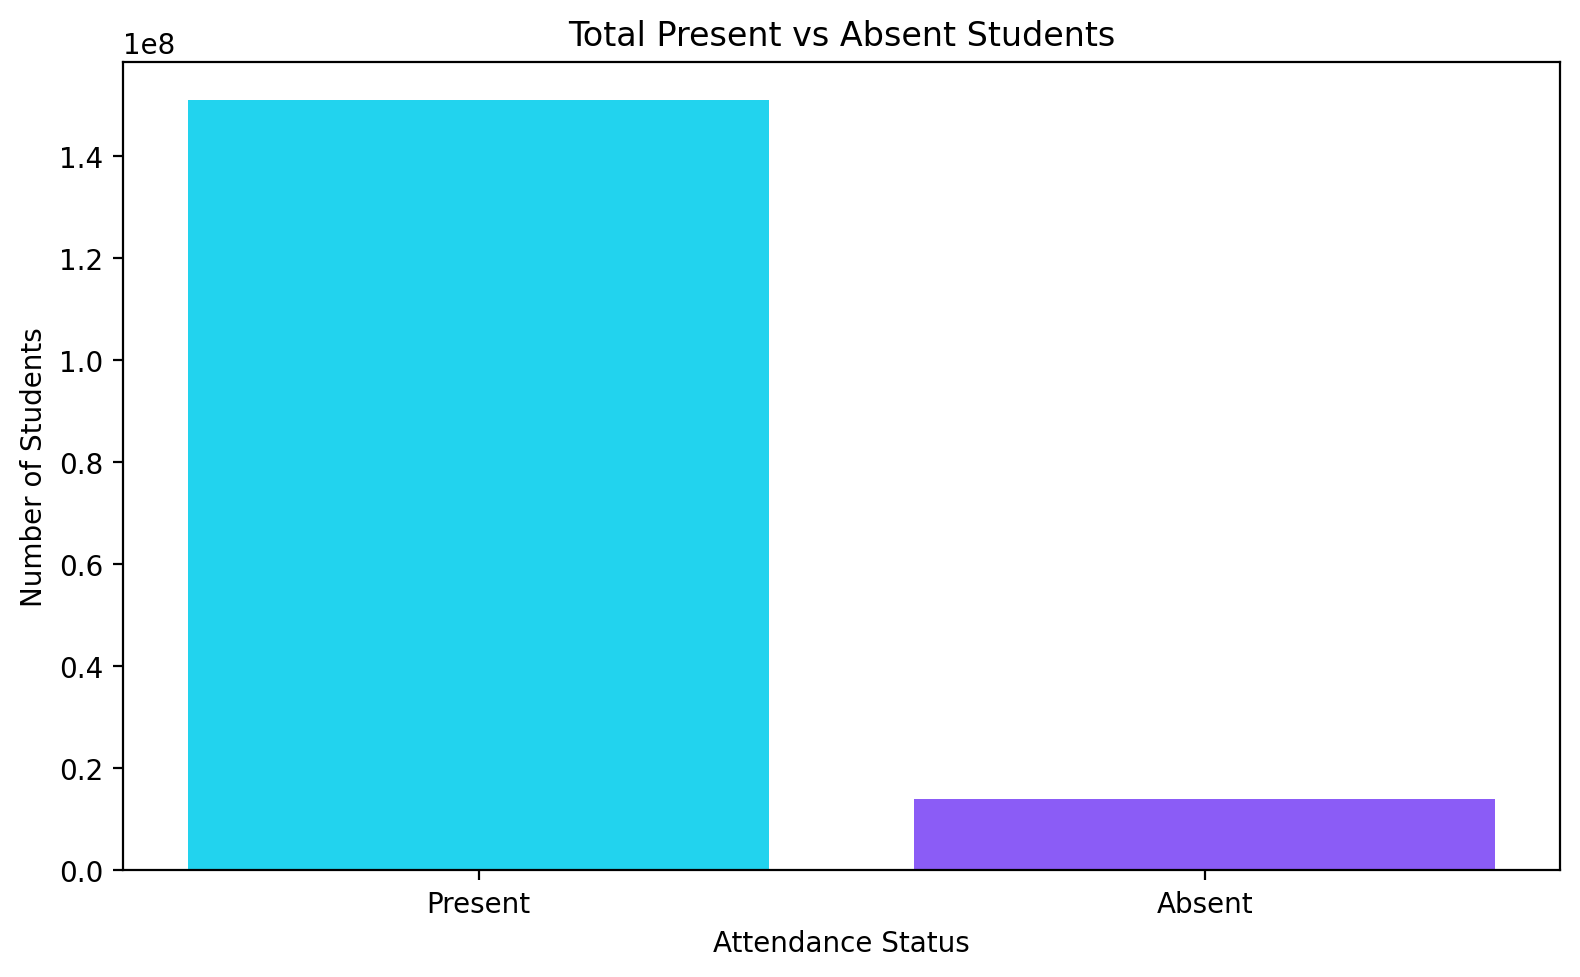
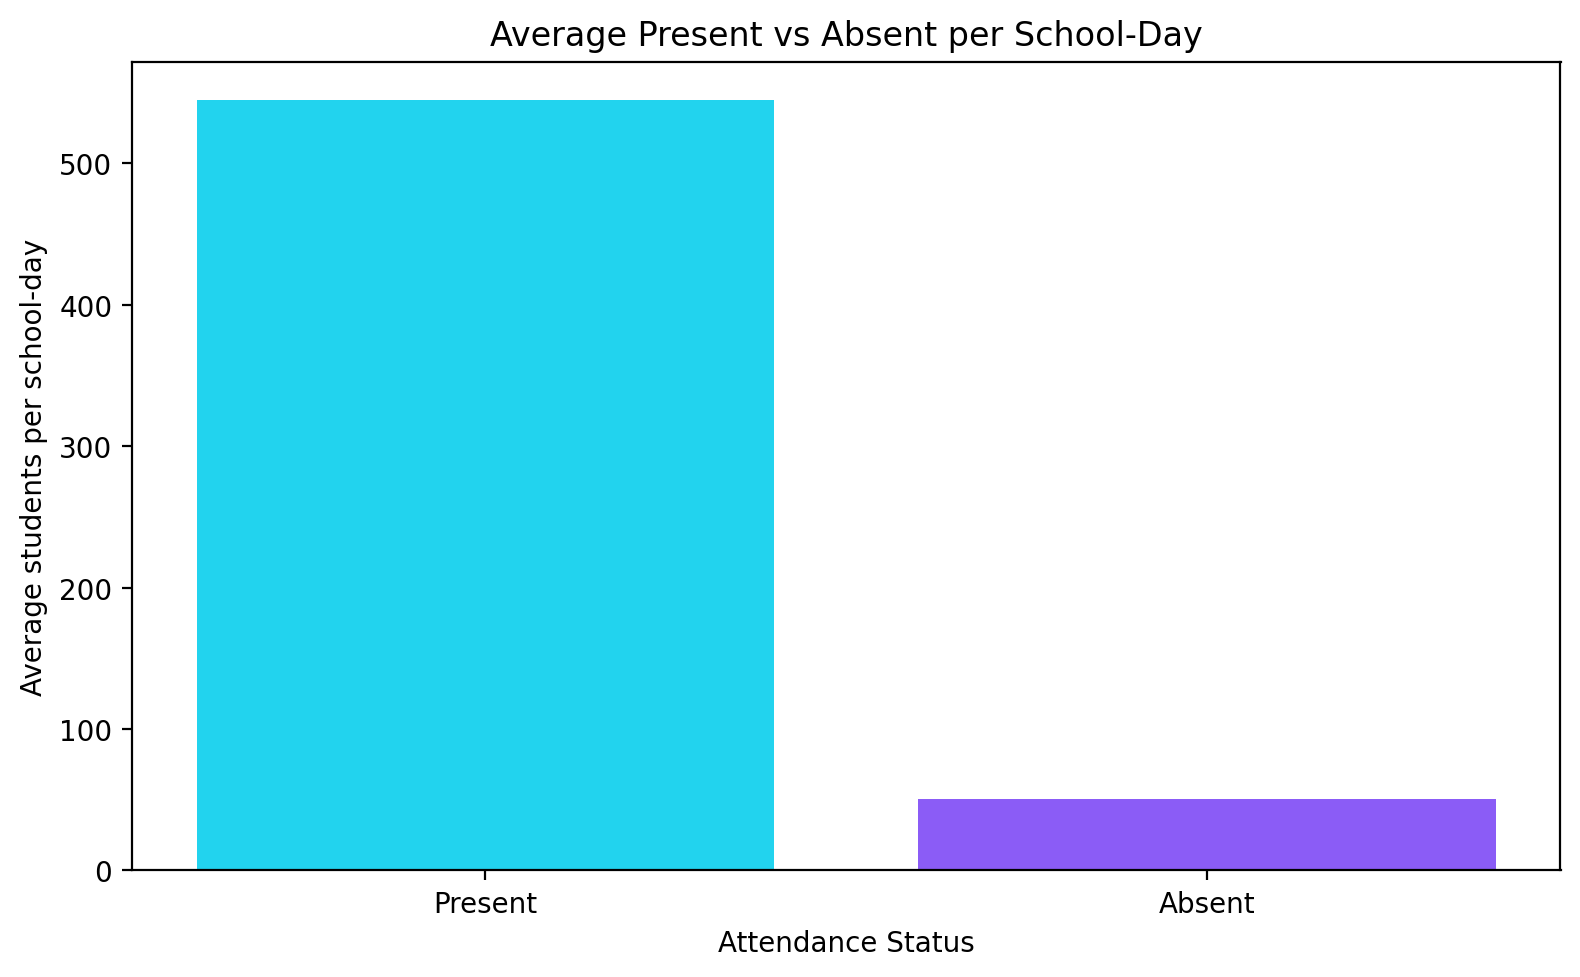
Fix attendance dashboard visualizations

diff --git a/dashboard.py b/dashboard.py
@@ -2,7 +2,7 @@ import streamlit as st
 import pandas as pd
 
 from ML_models import train_and_evaluate_models
-from attendance_utils import load_attendance_data
+from attendance_utils import build_attendance_chart_data, load_attendance_data
 
 
 st.set_page_config(page_title="Smart Attendance Dashboard", page_icon="🎓", layout="wide")
@@ -11,6 +11,11 @@ st.set_page_config(page_title="Smart Attendance Dashboard", page_icon="🎓", la
 @st.cache_data
 def get_dataset() -> pd.DataFrame:
     return load_attendance_data()
+
+
+@st.cache_data
+def get_attendance_chart_data():
+    return build_attendance_chart_data(get_dataset())
 
 
 @st.cache_resource
@@ -107,40 +112,57 @@ if page == "Dashboard Overview":
 
 elif page == "Attendance Analysis":
     st.markdown('<div class="section-title">Attendance Overview</div>', unsafe_allow_html=True)
-
-    present_absent = pd.DataFrame(
-        {"Students": [int(df["Present"].sum()), int(df["Absent"].sum())]},
-        index=["Present", "Absent"],
-    )
+    average_counts, daily, monthly, weekday, schools = get_attendance_chart_data()
 
     col1, col2 = st.columns(2)
     with col1:
-        st.subheader("Present vs Absent")
-        st.bar_chart(present_absent)
+        st.subheader("Present vs Absent per School-Day")
+        st.bar_chart(
+            average_counts,
+            x="Attendance",
+            y="Average students per school-day",
+            x_label="Attendance",
+            y_label="Average students per school-day",
+        )
     with col2:
-        st.subheader("Attendance Percentage")
-        daily_rate = (df.groupby("Date")["Present"].sum() / df.groupby("Date")["Enrolled"].sum()) * 100
-        st.line_chart(daily_rate.rename("Attendance %"))
+        st.subheader("Attendance Percentage by Weekday")
+        st.bar_chart(
+            weekday,
+            x="Weekday",
+            y="Attendance Percentage",
+            x_label="Weekday",
+            y_label="Attendance percentage",
+        )
 
     st.write("")
     st.subheader("Attendance Trend Over Time")
-    daily = df.groupby("Date")["Present"].sum()
-    st.line_chart(daily)
-
-    st.write("")
-    st.subheader("Monthly Attendance")
-    monthly = df.assign(Month=df["Date"].dt.to_period("M").astype(str)).groupby("Month")["Present"].sum()
-    st.bar_chart(monthly)
-
-    st.write("")
-    st.subheader("Top Schools by Average Attendance")
-    school_summary = (
-        (df.groupby("School DBN")["Present"].sum() / df.groupby("School DBN")["Enrolled"].sum())
-        .sort_values(ascending=False)
-        .head(10)
+    st.line_chart(
+        daily,
+        x="Date",
+        y="Attendance Percentage",
+        x_label="Date",
+        y_label="Attendance percentage",
     )
-    school_summary.name = "Attendance %"
-    st.bar_chart(school_summary)
+
+    st.write("")
+    st.subheader("Monthly Attendance Rate")
+    st.bar_chart(
+        monthly,
+        x="Month",
+        y="Attendance Percentage",
+        x_label="Month",
+        y_label="Attendance percentage",
+    )
+
+    st.write("")
+    st.subheader("Top Schools by Attendance Rate")
+    st.bar_chart(
+        schools,
+        x="School DBN",
+        y="Attendance Percentage",
+        x_label="School DBN",
+        y_label="Attendance percentage",
+    )
 
 elif page == "Search Records":
     st.markdown('<div class="section-title">Search Records</div>', unsafe_allow_html=True)
@@ -158,7 +180,7 @@ elif page == "Model Comparison":
     st.markdown('<div class="section-title">Model Evaluation</div>', unsafe_allow_html=True)
     model_results, trained_models, X_test, y_test = get_model_registry_and_test_data()
     st.dataframe(model_results, width="stretch")
-    st.bar_chart(model_results.set_index("Model")["MAE"])
+    st.bar_chart(model_results, x="Model", y="MAE", x_label="Model", y_label="Test MAE")
     st.caption("Metrics use a chronological holdout and school/calendar predictors only. Same-day attendance counts are excluded.")
 
 elif page == "ML Prediction":
@@ -190,16 +212,26 @@ elif page == "ML Prediction":
 
 elif page == "Visualizations":
     st.markdown('<div class="section-title">Attendance Visualizations</div>', unsafe_allow_html=True)
-    daily_totals = df.groupby("Date")[["Present", "Absent"]].sum()
-    daily_enrolled = df.groupby("Date")["Enrolled"].sum()
-    daily_rate = (daily_totals["Present"] / daily_enrolled) * 100
+    _, daily, _, _, _ = get_attendance_chart_data()
     first, second = st.columns(2)
     with first:
-        st.subheader("Present and Absent by Day")
-        st.area_chart(daily_totals)
+        st.subheader("Average Present and Absent per School-Day")
+        st.line_chart(
+            daily,
+            x="Date",
+            y=["Average Present per School-Day", "Average Absent per School-Day"],
+            x_label="Date",
+            y_label="Average students per school-day",
+        )
     with second:
         st.subheader("Daily Attendance Rate")
-        st.line_chart(daily_rate.rename("Attendance %"))
+        st.line_chart(
+            daily,
+            x="Date",
+            y="Attendance Percentage",
+            x_label="Date",
+            y_label="Attendance percentage",
+        )
 
 elif page == "Dataset Explorer":
     st.markdown('<div class="section-title">Dataset Information</div>', unsafe_allow_html=True)

diff --git a/visualization.py b/visualization.py
@@ -7,7 +7,7 @@ import matplotlib
 matplotlib.use("Agg")
 import matplotlib.pyplot as plt
 
-from attendance_utils import get_project_root, load_attendance_data
+from attendance_utils import build_attendance_chart_data, get_project_root, load_attendance_data
 
 
 def save_chart(fig: plt.Figure, filename: str) -> None:
@@ -20,48 +20,43 @@ def save_chart(fig: plt.Figure, filename: str) -> None:
 
 def main() -> None:
     df = load_attendance_data()
-
-    total_present = int(df["Present"].sum())
-    total_absent = int(df["Absent"].sum())
+    average_counts, daily, monthly, _, schools = build_attendance_chart_data(df)
 
     fig1, ax1 = plt.subplots(figsize=(8, 5))
-    ax1.bar(["Present", "Absent"], [total_present, total_absent], color=["#22d3ee", "#8b5cf6"])
-    ax1.set_title("Total Present vs Absent Students")
+    ax1.bar(
+        average_counts["Attendance"],
+        average_counts["Average students per school-day"],
+        color=["#22d3ee", "#8b5cf6"],
+    )
+    ax1.set_title("Average Present vs Absent per School-Day")
     ax1.set_xlabel("Attendance Status")
-    ax1.set_ylabel("Number of Students")
+    ax1.set_ylabel("Average students per school-day")
     save_chart(fig1, "attendance_distribution.png")
 
-    daily_data = df.groupby("Date")["Present"].sum()
     fig2, ax2 = plt.subplots(figsize=(12, 6))
-    ax2.plot(daily_data.index, daily_data.values, color="#22d3ee", linewidth=2)
-    ax2.set_title("Daily Attendance Trend")
+    ax2.plot(daily["Date"], daily["Attendance Percentage"], color="#22d3ee", linewidth=2)
+    ax2.set_ylim(0, 100)
+    ax2.set_title("Daily Attendance Rate")
     ax2.set_xlabel("Date")
-    ax2.set_ylabel("Total Present Students")
+    ax2.set_ylabel("Attendance percentage")
     ax2.tick_params(axis="x", rotation=45)
     save_chart(fig2, "attendance_trend.png")
 
-    top_schools = (
-        df.groupby("School DBN")["Present"]
-        .mean()
-        .sort_values(ascending=False)
-        .head(10)
-    )
     fig3, ax3 = plt.subplots(figsize=(12, 6))
-    ax3.bar(top_schools.index, top_schools.values, color="#8b5cf6")
-    ax3.set_title("Top 10 Schools by Average Attendance")
+    ax3.bar(schools["School DBN"], schools["Attendance Percentage"], color="#8b5cf6")
+    ax3.set_ylim(0, 100)
+    ax3.set_title("Top 10 Schools by Attendance Rate")
     ax3.set_xlabel("School DBN")
-    ax3.set_ylabel("Average Present Students")
+    ax3.set_ylabel("Attendance percentage")
     ax3.tick_params(axis="x", rotation=45)
     save_chart(fig3, "school_attendance.png")
 
-    daily_totals = df.groupby("Date")[["Present", "Absent"]].sum()
-    daily_enrolled = df.groupby("Date")["Enrolled"].sum()
-    daily_rate = daily_totals["Present"] / daily_enrolled * 100
     fig4, ax4 = plt.subplots(figsize=(12, 6))
-    ax4.plot(daily_rate.index, daily_rate.values, color="#8b5cf6", linewidth=2)
-    ax4.set_title("Daily Attendance Percentage")
-    ax4.set_xlabel("Date")
-    ax4.set_ylabel("Attendance Percentage")
+    ax4.bar(monthly["Month"], monthly["Attendance Percentage"], color="#8b5cf6")
+    ax4.set_ylim(0, 100)
+    ax4.set_title("Monthly Attendance Rate")
+    ax4.set_xlabel("Month")
+    ax4.set_ylabel("Attendance percentage")
     ax4.tick_params(axis="x", rotation=45)
     save_chart(fig4, "attendance_percentage.png")
 

diff --git a/tests/test_attendance_pipeline.py b/tests/test_attendance_pipeline.py
@@ -8,7 +8,7 @@ from unittest.mock import patch
 
 import ams
 import attendance_utils
-from attendance_utils import build_prediction_features, load_attendance_data
+from attendance_utils import build_attendance_chart_data, build_prediction_features, load_attendance_data
 
 
 class AttendancePipelineTests(unittest.TestCase):
@@ -35,6 +35,29 @@ class AttendancePipelineTests(unittest.TestCase):
         self.assertNotIn("Released", features.columns)
         self.assertEqual(len(features), len(target))
         self.assertTrue((df["Present"] + df["Absent"] + df["Released"] == df["Enrolled"]).all())
+
+    def test_chart_aggregations_are_realistic_and_conserve_totals(self):
+        df = load_attendance_data()
+        average_counts, daily, monthly, weekdays, schools = build_attendance_chart_data(df)
+
+        average_by_status = average_counts.set_index("Attendance")["Average students per school-day"]
+        self.assertAlmostEqual(average_by_status["Present"], df["Present"].mean(), places=6)
+        self.assertAlmostEqual(average_by_status["Absent"], df["Absent"].mean(), places=6)
+        self.assertLess(average_counts["Average students per school-day"].max(), 600)
+
+        for grouped in (daily, monthly):
+            self.assertEqual(int(grouped["Present"].sum()), int(df["Present"].sum()))
+            self.assertEqual(int(grouped["Absent"].sum()), int(df["Absent"].sum()))
+            self.assertTrue(grouped["Attendance Percentage"].between(0, 100).all())
+
+        self.assertEqual(len(monthly), 10)
+        self.assertEqual(monthly["Month"].tolist(), sorted(monthly["Month"].tolist()))
+        self.assertEqual(daily["Date"].min().strftime("%Y-%m-%d"), "2018-09-04")
+        self.assertEqual(daily["Date"].max().strftime("%Y-%m-%d"), "2019-06-26")
+        self.assertTrue(weekdays["Attendance Percentage"].between(0, 100).all())
+        self.assertEqual(len(schools), 10)
+        self.assertTrue(schools["Attendance Percentage"].between(0, 100).all())
+        self.assertTrue((average_counts["Average students per school-day"] >= 0).all())
 
     def test_invalid_required_values_are_not_silently_removed(self):
         with tempfile.TemporaryDirectory() as directory:

diff --git a/attendance_utils.py b/attendance_utils.py
@@ -69,6 +69,43 @@ def load_attendance_data() -> pd.DataFrame:
     return df.reset_index(drop=True)
 
 
+def build_attendance_chart_data(
+    df: pd.DataFrame,
+) -> tuple[pd.DataFrame, pd.DataFrame, pd.DataFrame, pd.DataFrame, pd.DataFrame]:
+    average_counts = (
+        df[["Present", "Absent"]]
+        .mean()
+        .rename_axis("Attendance")
+        .reset_index(name="Average students per school-day")
+    )
+
+    count_columns = ["Present", "Absent", "Enrolled"]
+    daily = df.groupby("Date")[count_columns].sum().sort_index()
+    daily["School-Day Records"] = df.groupby("Date").size()
+    daily["Attendance Percentage"] = daily["Present"].div(daily["Enrolled"]) * 100
+    daily["Average Present per School-Day"] = daily["Present"].div(daily["School-Day Records"])
+    daily["Average Absent per School-Day"] = daily["Absent"].div(daily["School-Day Records"])
+    daily = daily.reset_index()
+
+    monthly = (
+        df.assign(Month=df["Date"].dt.to_period("M").astype(str))
+        .groupby("Month", as_index=False)[count_columns]
+        .sum()
+    )
+    monthly["Attendance Percentage"] = monthly["Present"].div(monthly["Enrolled"]) * 100
+
+    weekday_order = ["Monday", "Tuesday", "Wednesday", "Thursday", "Friday", "Saturday", "Sunday"]
+    weekday = df.assign(Weekday=df["Date"].dt.day_name()).groupby("Weekday")[count_columns].sum()
+    weekday["Attendance Percentage"] = weekday["Present"].div(weekday["Enrolled"]) * 100
+    weekday = weekday.reindex(weekday_order).dropna(subset=["Present"]).reset_index()
+
+    schools = df.groupby("School DBN")[count_columns].sum()
+    schools["Attendance Percentage"] = schools["Present"].div(schools["Enrolled"]) * 100
+    schools = schools.sort_values("Attendance Percentage", ascending=False).head(10).reset_index()
+
+    return average_counts, daily, monthly, weekday, schools
+
+
 def build_prediction_features(
     df: pd.DataFrame,
     school_codes: dict[str, int] | None = None,

diff --git a/README.md b/README.md
@@ -83,11 +83,13 @@ All same-day attendance counts (`Enrolled`, `Absent`, and `Released`) are exclud
 The dashboard includes:
 
 - Dashboard overview cards
-- Attendance and absence charts, daily/monthly trends, and school summaries
+- Average present/absent counts per school-day, weighted daily/monthly attendance rates, weekday rates, and top-school rates
 - Search by school and date
 - Model comparison table and MAE chart
 - School/date attendance prediction
 - Filterable dataset explorer and summary
+
+Chart rates are calculated from grouped sums (`Present / Enrolled * 100`). Count comparisons use the average per school-day rather than summing every row into totals of more than 150 million. The original attendance totals remain available in the overview KPIs.
 
 ## 9. Project Structure
 
